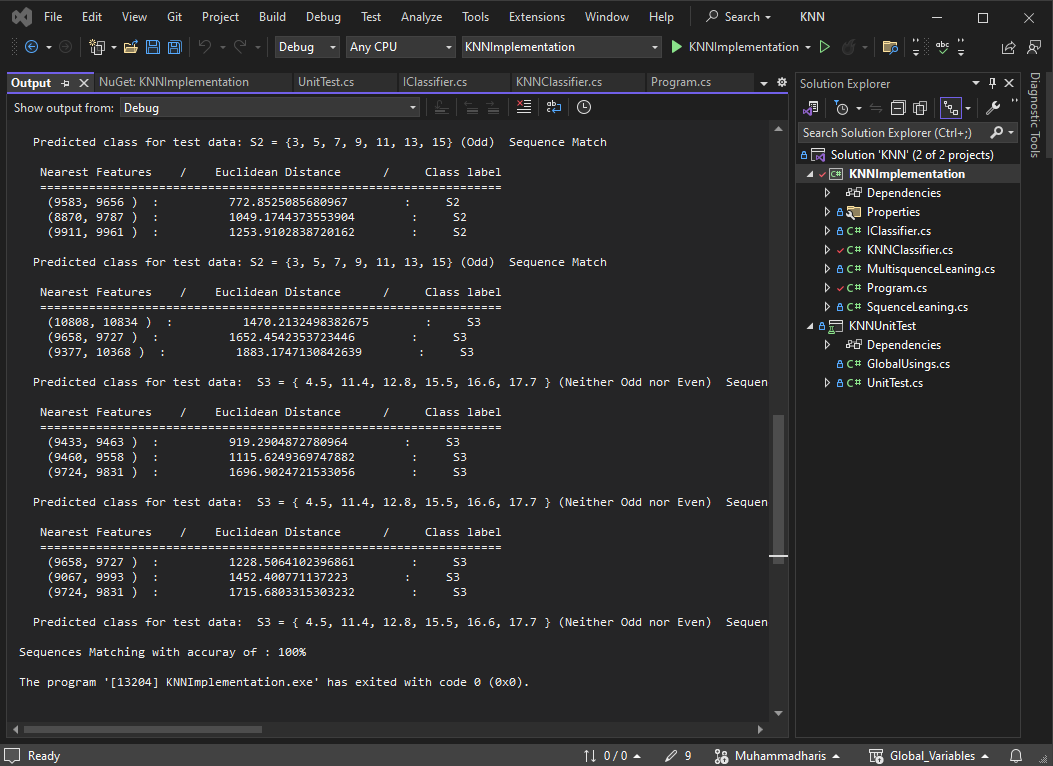
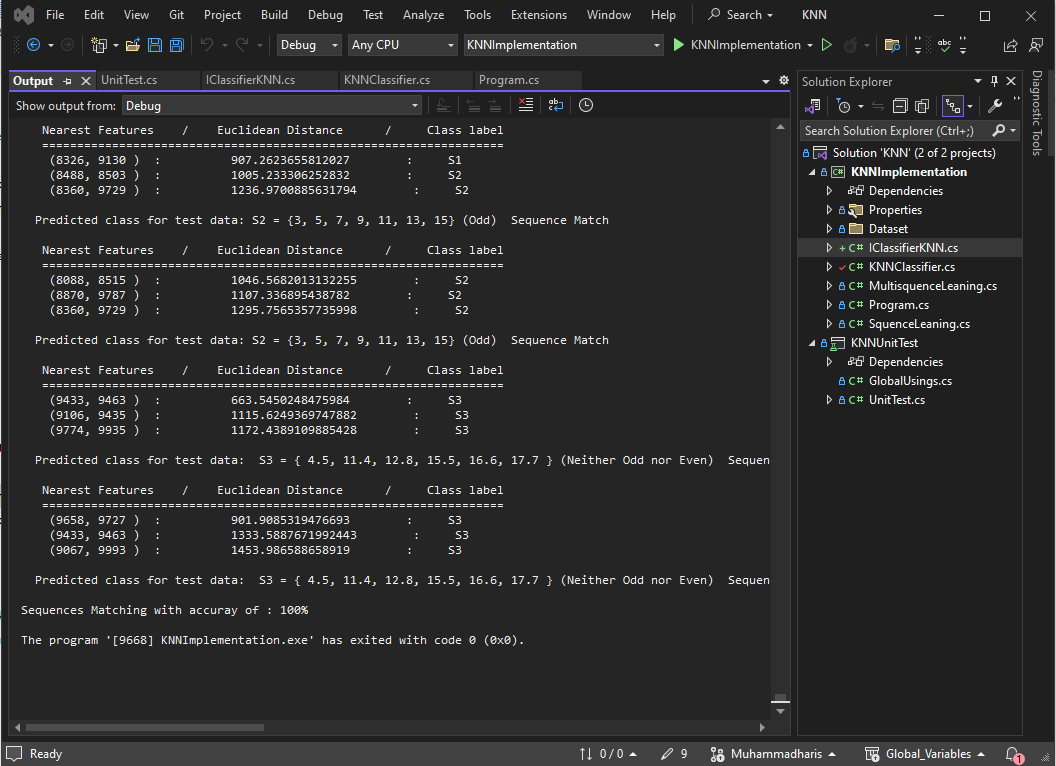
update result

diff --git a/Myproject/KNN/KNNImplementation/KNNClassifier.cs b/Myproject/KNN/KNNImplementation/KNNClassifier.cs
@@ -57,7 +57,7 @@ namespace KNNImplementation
     /// KNN class is designed to perform classification tasks on sequences derived from the SDR (Sparse Distributed Representation) dataset
     /// </summary>
 
-    public class KNNClassifier : IClassifier
+    public class KNNClassifier : IClassifierKNN
     {
 
         /// <summary>
@@ -199,7 +199,7 @@ namespace KNNImplementation
     /// <summary>
     /// Class to load dataset from the JSON file and split the dataset into training and testing data with respect to spliting ratio.
     /// </summary>
-    public class Classifierleaning : IClassifier
+    public class Classifierleaning : IClassifierKNN
     {
 
         /// <summary>

diff --git a/Myproject/KNN/KNNImplementation/IClassifierKNN.cs b/Myproject/KNN/KNNImplementation/IClassifierKNN.cs
@@ -9,7 +9,7 @@ using NeoCortexApi.Classifiers;
 
 namespace KNNImplementation
 {
-    public interface IClassifier
+    public interface IClassifierKNN
     {
 
         public List<string> Classifier(List<List<double>> testingFeatures, List<List<double>> trainingFeatures, List<string> trainingLabels, int k);
